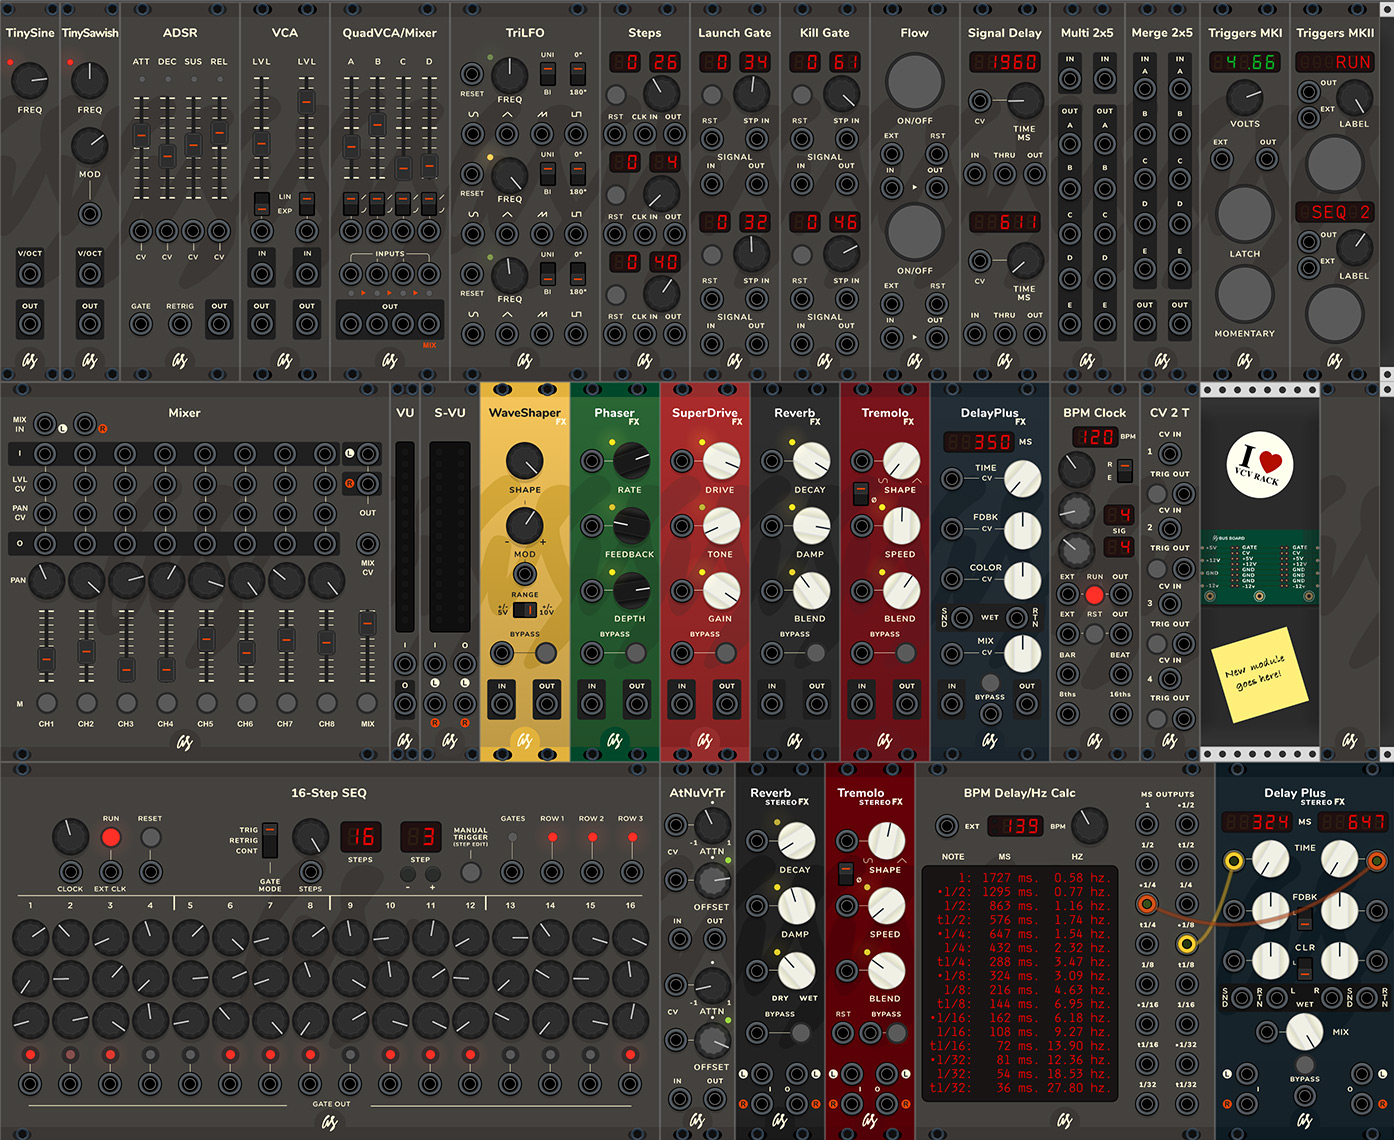
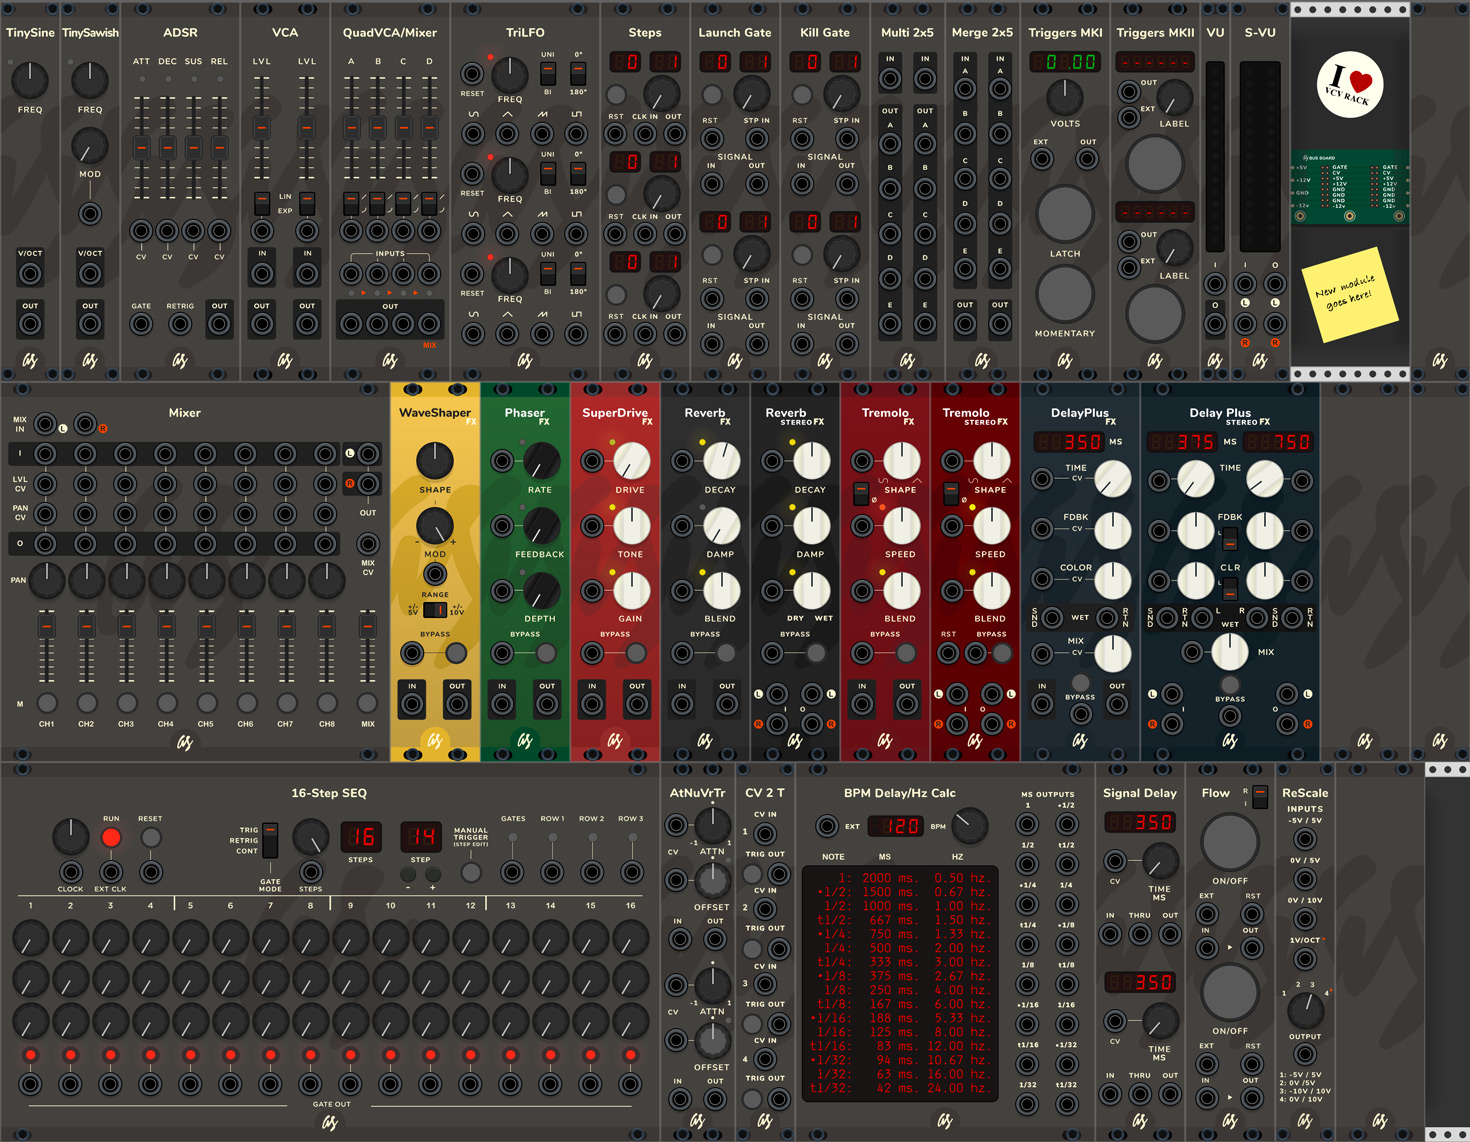
Update to v0.6.9

diff --git a/README.md b/README.md
@@ -132,6 +132,21 @@ V 0.5.7: First relase of this module.
 
 V 0.6.5: Added "RUN" label at the end of the list.
 
+### Triggers MKIII
+A manual CV signal temporary trigger module with labeling integrated, now you can type directly the labels you want to use. Also added a handy second EXT input.
+
+V 0.6.9: First relase of this module.
+
+### ReScale
+Utility module to convert from one voltage range to another, available inputs are:
+ -5v/5v, 0v/5v, 0v/10v, 1V/OCT*.
+ Available output signal options are: 
+ -5v/5v, 0v/5v, -10v/10v, 0v/10v*
+ *1V/OCT option is to convert any voltage source to 1 octave 1V/OCT range.
+
+
+V 0.6.9: First relase of this module.
+
 ### Steps
 Strum's Mental VCV Counters module. Mods: graphics, 3 counters, up to 64 steps each, added reset lights to the buttons.
 
@@ -160,10 +175,14 @@ V 0.6.0: First relase of this module.
 
 V 0.6.5: Now it features soft mute, so you can use it both for audio and cv signals without any switching noise.
 
+V 0.6.9: Switch selector added to reverse the default ON/OFF swtiches light behavior(by usrer request).
+
 ### Signal Delay
 Delay the incomming CV signal by set milliseconds, with signal thru and delayed output. You can chain several Signal Delay modules together for unlimited length of delays. (TAOS request).
 
 V 0.5.5: First relase of this module.
+
+V 0.6,9: Small fix on the ms CV input to take the proper values fron BPM calc module.
 
 ### CV 2 T
 CV to Trigger module. Feed a midi signal to the CV inputs and it will output one trigger signal when the incoming signal rises above 0v, and another trigger signal when the incoming signal returns to 0v. Useful to use your external hardware controller/keyboard as a trigger.
